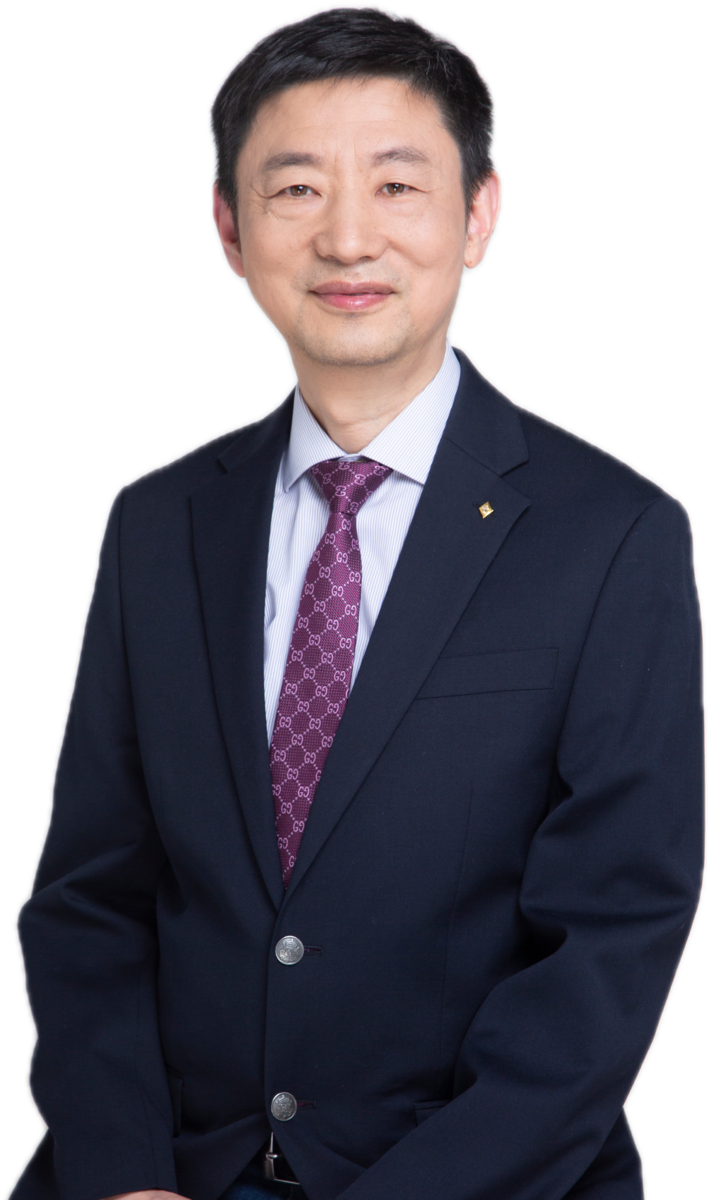
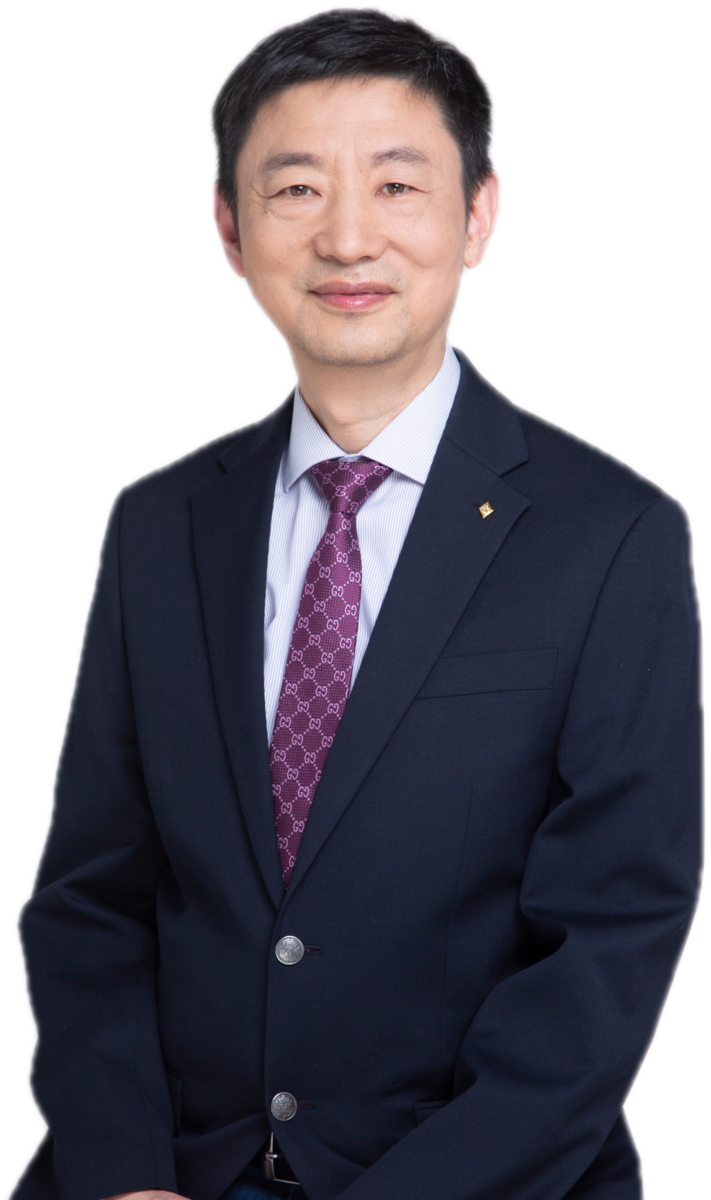
Clean cut-out edges (erode+feather) and shrink the Personal Website hero photo
- Defringe the portrait: erode the alpha ~2px and feather it, removing the light
  halo left from the grey studio background — invisible on the light home bg but
  obvious on the blue CV hero.
- Reduce the CV hero portrait column (300→240px) so the hero is less empty.

diff --git a/src/styles/global.css b/src/styles/global.css
@@ -257,7 +257,7 @@ img {
   align-items: center;
   display: grid;
   gap: clamp(2rem, 5vw, 3.5rem);
-  grid-template-columns: minmax(220px, 300px) minmax(0, 1fr);
+  grid-template-columns: minmax(180px, 240px) minmax(0, 1fr);
   margin: 0 auto;
   max-width: var(--content-max);
   position: relative;
